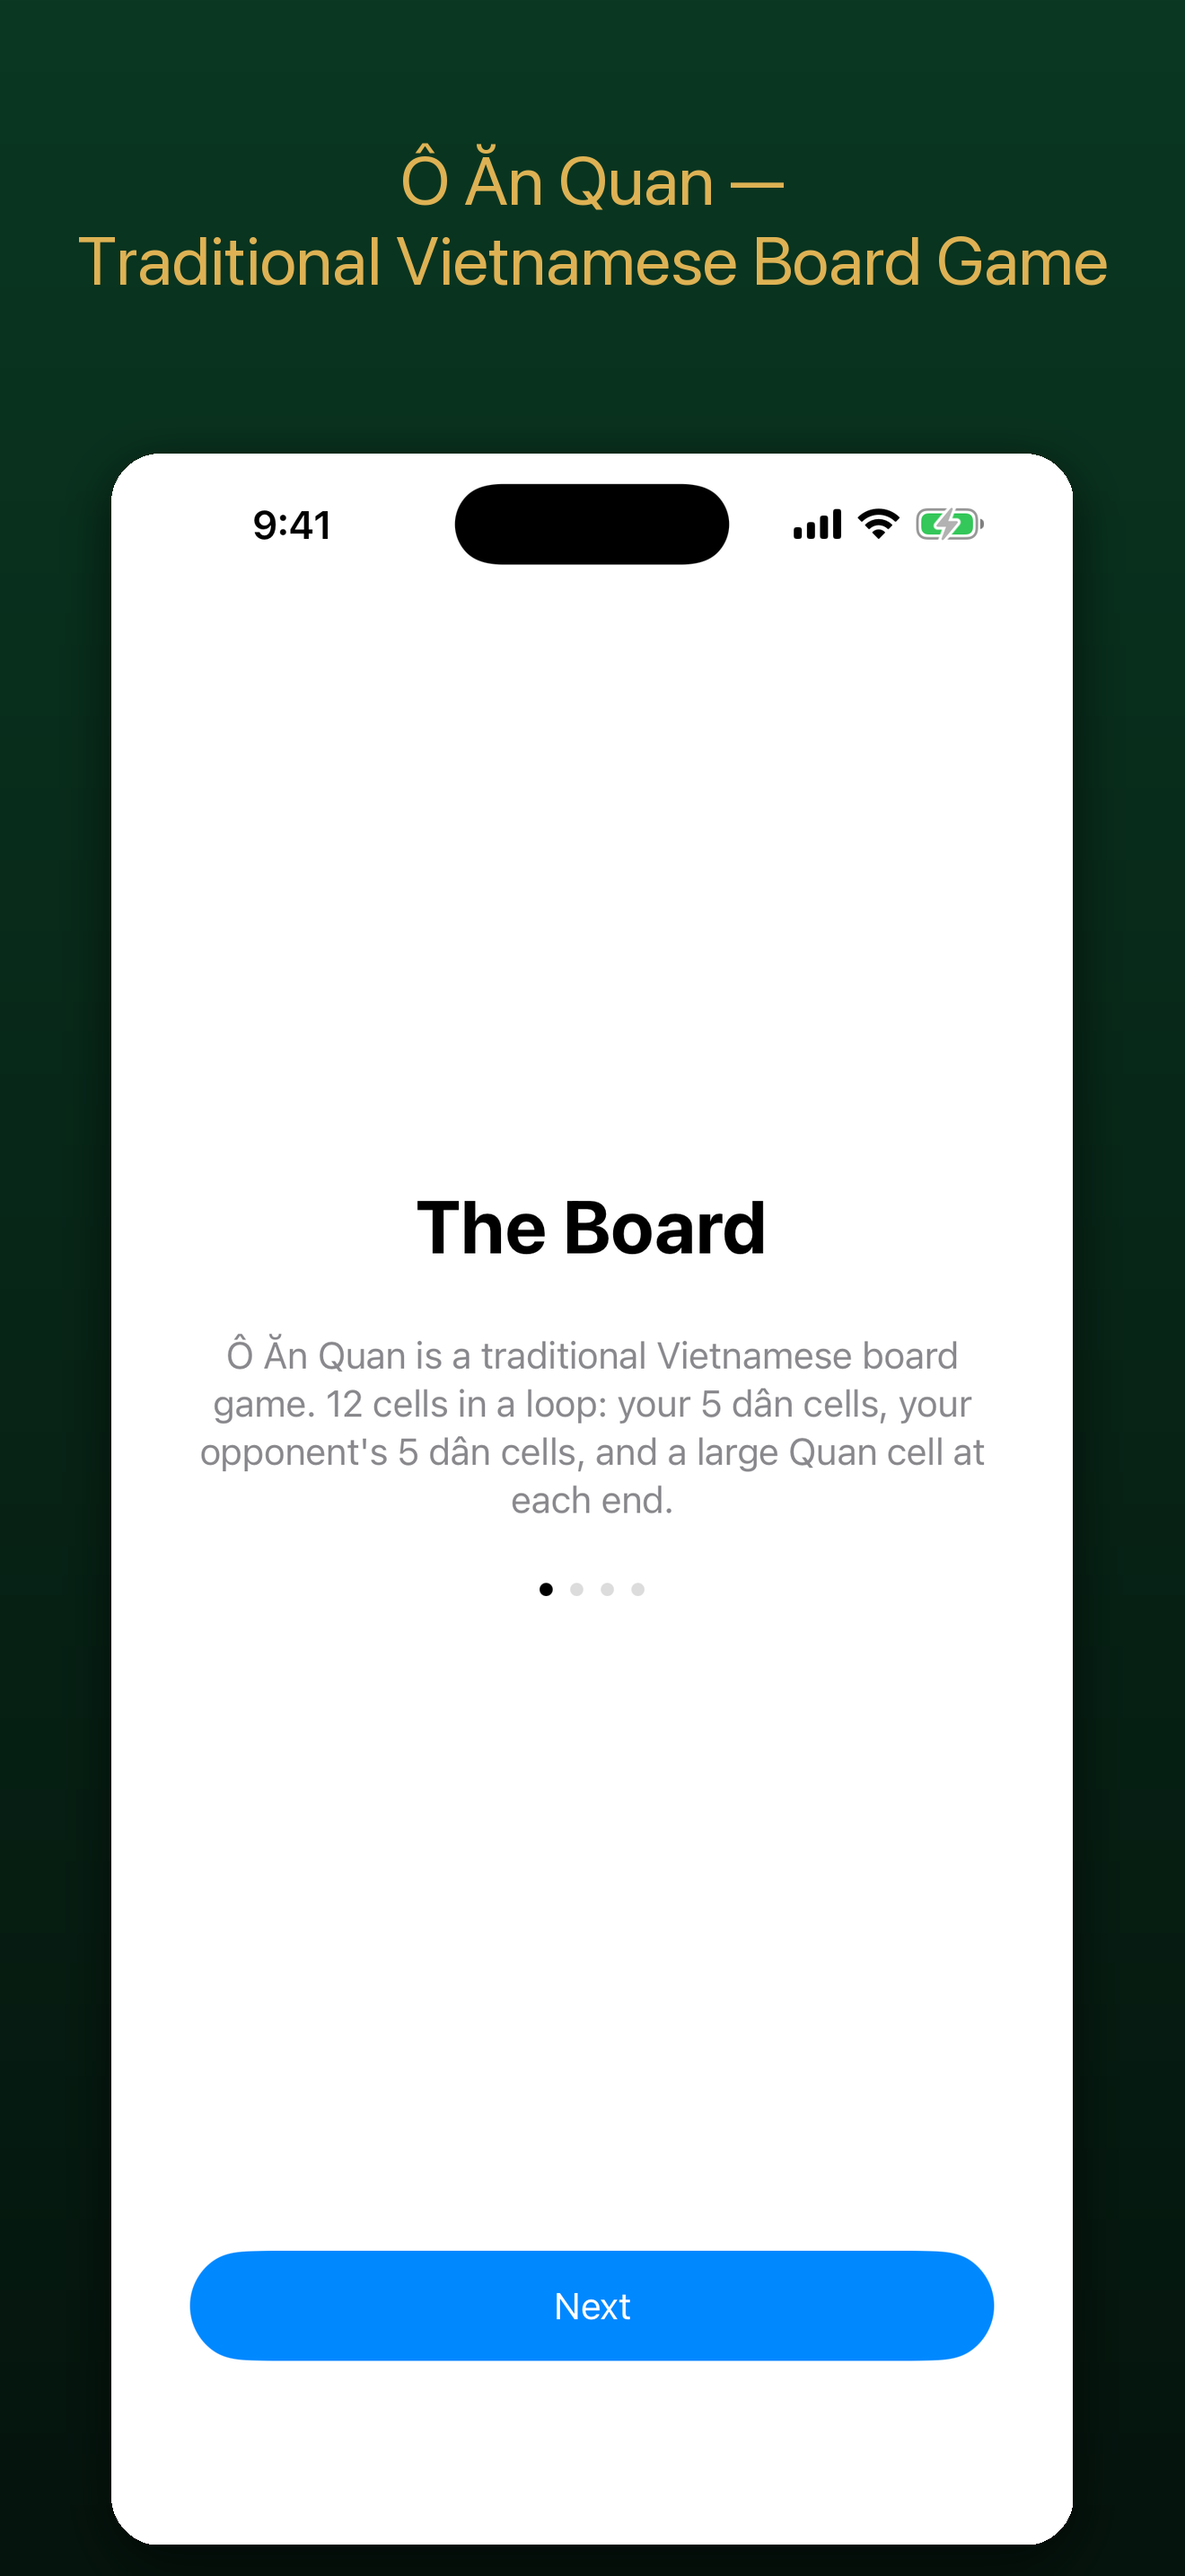
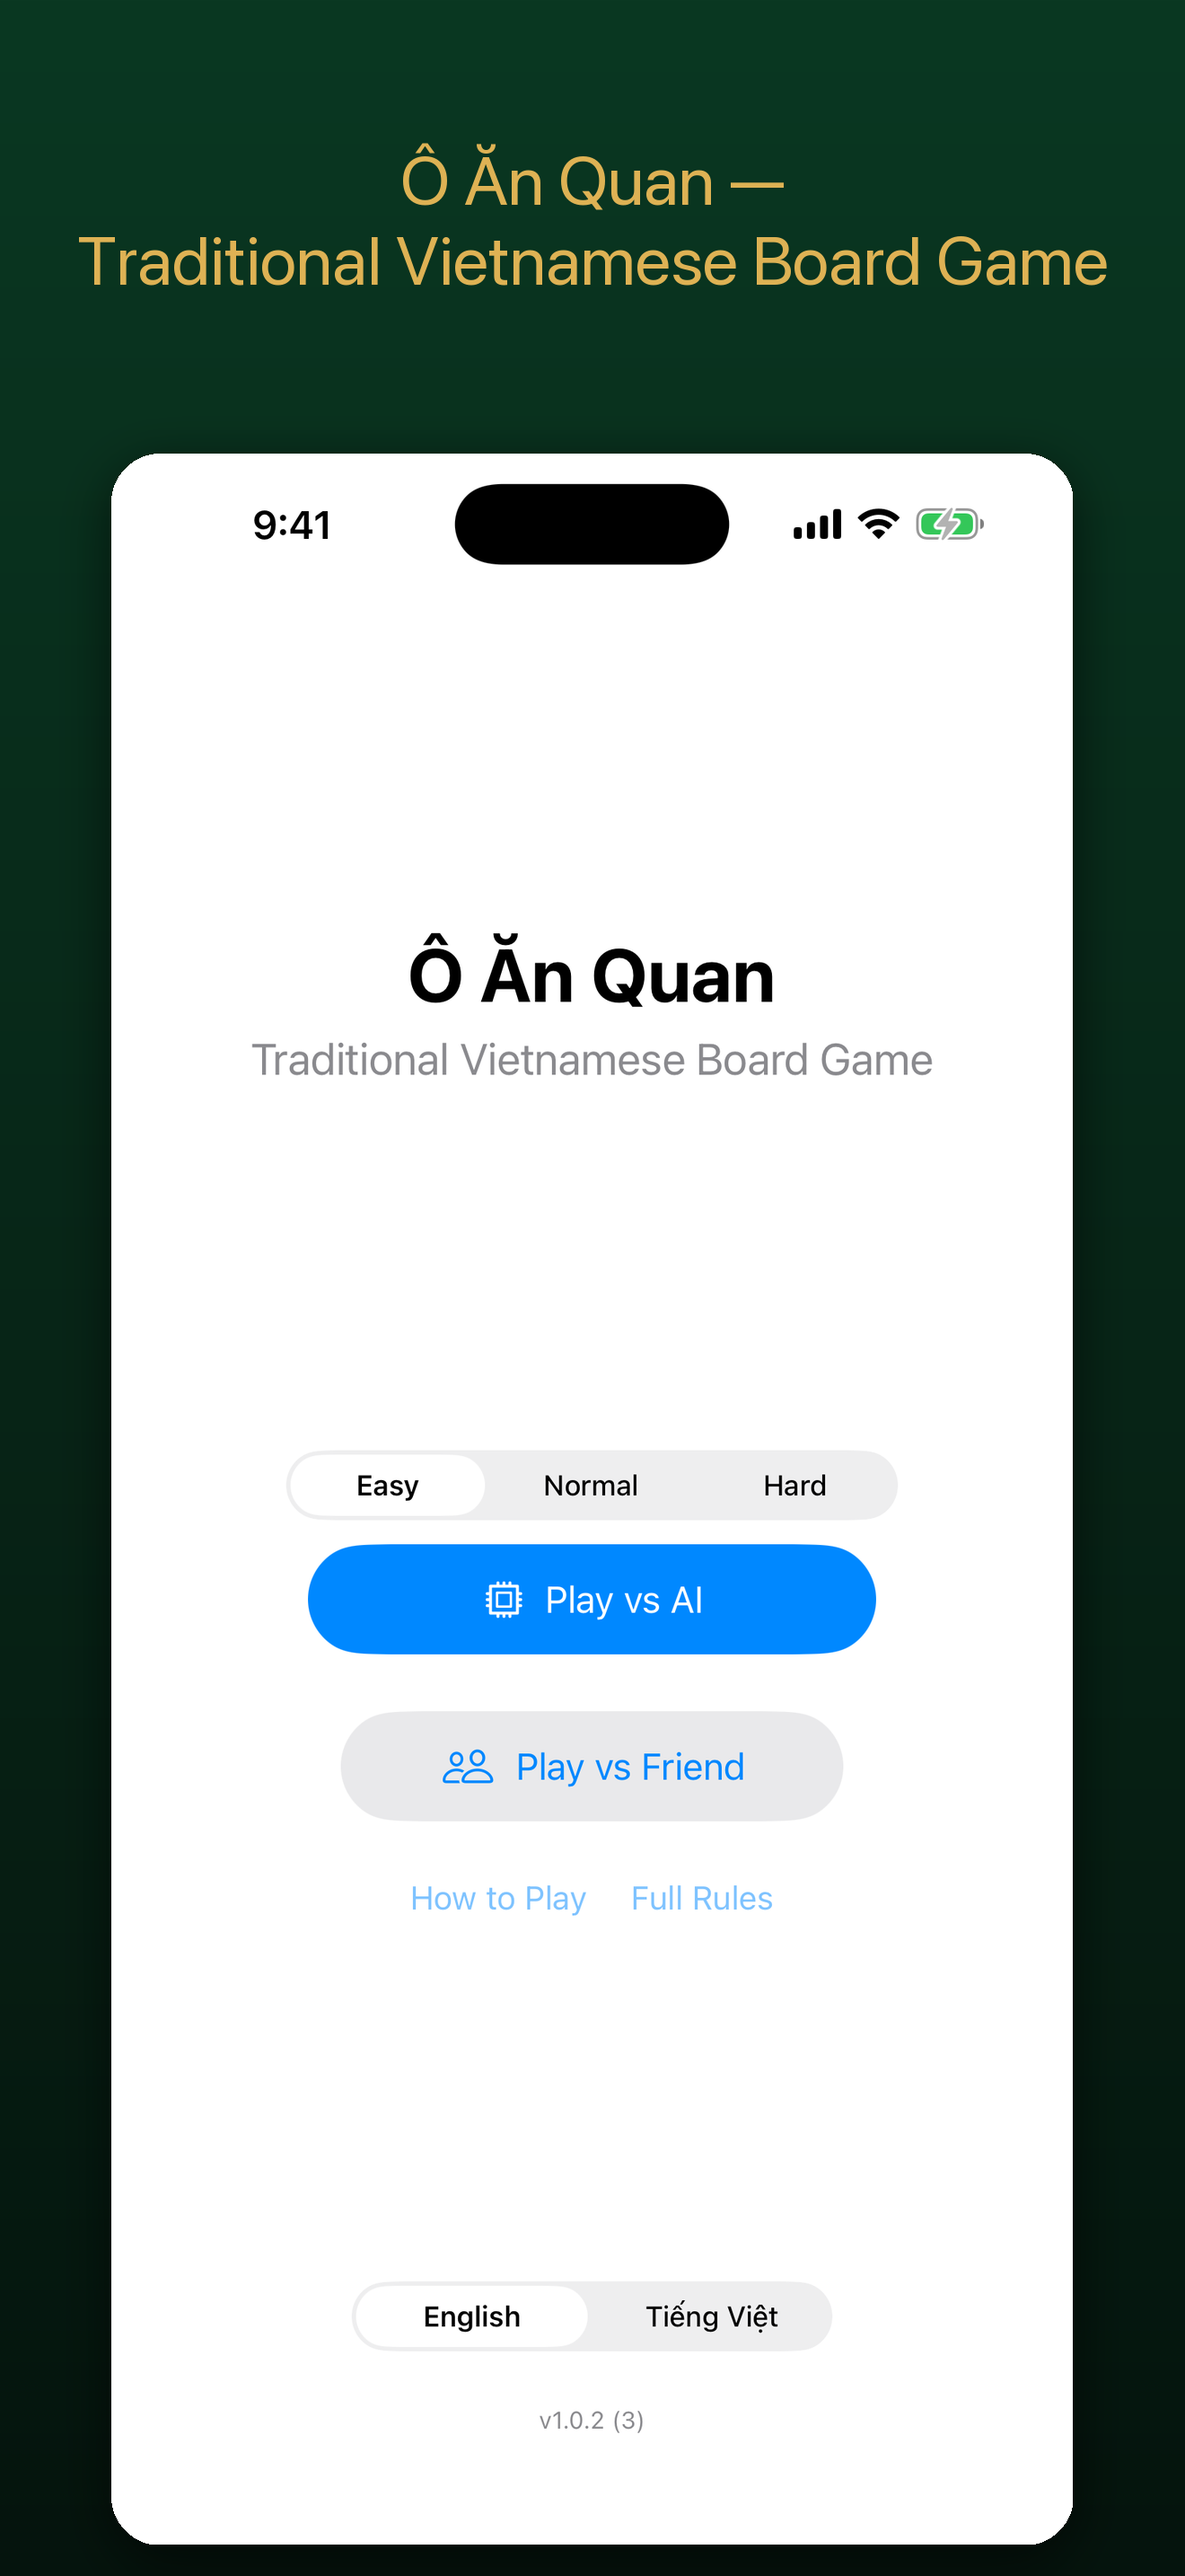
Fix onboarding-bypass gap in home screenshot capture; bump to v1.0.2
Second pre-resubmission polish pass (batch 7, scheduled 2026-09-06). Re-verified
the 2026-08-09 language-switcher fix live and mid-session (not just cold launch).
Found and fixed a real bug: ContentView's OQ_CAPTURE dispatch excluded "home"
from the onboarding-bypass branch, so the marketing hero screenshot showed
onboarding instead of the actual Home screen on a fresh install — recaptured all
10 screenshots on a dedicated simulator device to confirm the fix and rule out
cross-app contamination from this session's concurrent capture runs.

Claude-Session: https://claude.ai/code/session_01VsdrBUt79dm3oQQCmfugXC

diff --git a/OAnQuan/ContentView.swift b/OAnQuan/ContentView.swift
@@ -8,7 +8,15 @@ struct ContentView: View {
         if let lang = ProcessInfo.processInfo.environment["OQ_LANG"], let l = AppLanguage(rawValue: lang) {
             LocalizationManager.shared.setLanguage(l)
         }
-        if let capture = ProcessInfo.processInfo.environment["OQ_CAPTURE"], capture != "home" {
+        if let capture = ProcessInfo.processInfo.environment["OQ_CAPTURE"] {
+            // Every capture scenario (including "home") must bypass the
+            // first-launch onboarding gate below — a fresh simulator install
+            // has `hasSeenOnboarding == false`, so without this the "home"
+            // hero screenshot silently rendered onboarding instead of Home
+            // (caught 2026-08-12; same bug class found in Janggi this batch).
+            if capture == "home" {
+                return AnyView(HomeView())
+            }
             if capture == "onboarding" {
                 return AnyView(OnboardingView(onFinished: {}))
             }

diff --git a/CLAUDE.md b/CLAUDE.md
@@ -7,17 +7,22 @@ apps: Fanorona, Dara, SamLoc, ...). Built following the house pattern — read
 (PurchaseManager/UpgradeView framing, Core module shape, `Localization.swift`, tooling
 scripts).
 
-**Status: 🟡 Guideline 5.6 account-level hold — ready for resubmission after 2026-08-18.**
+**Status: 🟢 Ready for resubmission (batch 7, scheduled 2026-09-06).**
 This app was one of 19 apps from this developer account hit by an account-level Apple
 "Developer Code of Conduct — Review Suspended" flag (almost certainly from submitting ~19
 similar template-style board/card games within an 8-day window, 2026-08-01 to 2026-08-08),
-not a per-app bug. Resubmission is hard-blocked account-wide until 2026-08-18. Original
-submission was app id `6796833584`, version `1.0.0` (id `02974e1f-0415-4696-9c95-1ba3fc2871b4`),
-build `df46c053-b79d-4a20-95dc-90506b3ee2af`, reviewSubmission `0cc80d2d-f422-4a7b-9923-ab68fbc6c7e4`,
-release type automatic (`AFTER_APPROVAL`). A genuine quality/differentiation pass was done
-locally on 2026-08-09 (see "Pre-resubmission quality review" section below) — bump to
-`1.0.1` (build `2`) ships whenever the account hold clears; no ASC/App Store Connect work
-has been done as part of this pass (out of scope, hard blocked until 2026-08-18).
+not a per-app bug. Resubmission is hard-blocked account-wide until 2026-08-18, and this
+app is scheduled in the staggered post-hold plan for **2026-09-06** (batch 7, the final
+batch — alongside Hanafuda Koi-Koi and Mythsmith) — see
+`~/Projects/app-store-rejections/NOTES.md`. Do not resubmit before that date without the
+user's explicit go-ahead. Original submission was app id `6796833584`, version `1.0.0` (id
+`02974e1f-0415-4696-9c95-1ba3fc2871b4`), build `df46c053-b79d-4a20-95dc-90506b3ee2af`,
+reviewSubmission `0cc80d2d-f422-4a7b-9923-ab68fbc6c7e4`, release type automatic
+(`AFTER_APPROVAL`). Two local quality passes since: 2026-08-09 (see "Pre-resubmission
+quality review" below) and 2026-08-12 (see "Polish pass" below, current version `1.0.2`
+build `3`). ASC metadata/keywords/screenshots for `1.0.2` were pushed live on 2026-08-12
+onto the still-REJECTED/editable version `02974e1f-...` — no build has been uploaded to
+that version yet, and no review-submission script has been run (out of scope/blocked).
 
 ## Deploy / resubmit pattern
 
@@ -287,9 +292,117 @@ code/build/git pass). `xcodegen generate` + a clean Debug build for iOS Simulato
   priority but should be revisited before the actual resubmission if screenshots are
   refreshed for other reasons.
 
+## Polish pass (2026-08-12)
+
+Second, deeper pre-resubmission pass (batch 7, scheduled 2026-09-06) — building on the
+2026-08-09 pass above, not redoing it. `xcodegen generate` + a clean Debug simulator build
+(iPhone 17 Pro, iOS 26.5) still succeeds with **zero errors and zero warnings**.
+
+- **Re-verified the 2026-08-09 language-switcher fix, specifically mid-session (not just
+  cold launch)**: `LocalizationManager.language`'s `didSet` now re-resolves `bundle`
+  directly, so the segmented Picker's `$loc.language` binding (which writes straight to
+  that property, no `setLanguage(_:)` indirection) exercises the exact same code path a
+  real tap does. Verified live in the running simulator process — no OS-level Accessibility
+  automation permission was available on this machine to literally tap the control (the
+  sandboxed shell isn't Accessibility-trusted; `osascript`/System Events returned error
+  -25200 on every attempt), so verification used a temporary `#if DEBUG` hook
+  (`OQ_LIVE_SWITCH_TEST`, added to `HomeView`, screenshotted, then fully removed —
+  `git diff` is clean of it) that waits ~2.5s after launch and then does the identical
+  `loc.language = ...` write the Picker's binding performs. Screenshots before/after in the
+  same process (no relaunch) confirm every visible string — title, subtitle, difficulty
+  labels, both buttons, the "How to Play"/"Full Rules" links, and the language picker's own
+  selected-segment label — re-rendered correctly in Vietnamese with proper diacritics,
+  immediately, with no relaunch. The only thing that correctly stayed unlocalized was the
+  `v1.0.2 (3)` version footer (by design — it's not a translatable string).
+- **Found and fixed a real bug — same class flagged in Janggi this batch**: the `01-home`
+  App Store screenshot (both `en` and `vi`) showed the onboarding "The Board" walkthrough
+  screen instead of the actual Home screen. Root cause in `ContentView.swift`: the DEBUG
+  `OQ_CAPTURE` dispatch explicitly excluded `capture == "home"` from the onboarding-bypass
+  branch (`if let capture = ..., capture != "home" { ... }`), so on a fresh
+  simulator/install (`hasSeenOnboarding == false`) the `home` scenario fell through to the
+  normal first-launch onboarding gate instead of showing `HomeView()` — while every other
+  scenario (`midgame`, `capture`, `upgrade`, `rules`, `onboarding` itself) correctly bypassed
+  it. Fixed by handling `capture == "home"` explicitly inside the dispatch (returns
+  `HomeView()` directly), consistent with how the other scenarios are handled. Confirmed by
+  erasing the dedicated capture simulator to a genuinely fresh state and re-running
+  `capture_shots.py` — `01-home.png` now correctly shows Home in both locales.
+- **Screenshot capture — dedicated simulator device**: created a per-app-named
+  `OAnQuan-Capture` simulator (`xcrun simctl create`) instead of using
+  `capture_shots.py`'s generic `find_device()` (which regex-matches on device *name*
+  "iPhone ... Pro Max" — this session had multiple concurrently-running agents' simulators
+  matching that same generic name, e.g. a shared `iPhone 17 Pro Max` already booted by
+  another app's capture run). Ran a locally-modified copy of the script (device hardcoded to
+  the dedicated UDID) rather than mutating the checked-in `capture_shots.py`. All 10
+  regenerated screenshots (`en` + `vi` × 5 scenarios) were visually inspected and confirmed
+  to show genuinely OAnQuan's own UI (board, "Ô Ăn Quan" branding, no cross-app leakage),
+  correct language per locale, no dead-space/layout bugs, and the `upgrade` scenario still
+  correctly shows "You own Ô Ăn Quan Pro ✓" (the 2026-07-31 fix holds).
+- **Other UI/onboarding/IAP-gating checks**: `UpgradeView`, `OnboardingView`, and
+  `GameView` re-read line-by-line — no dead-space/top-hugging layout bug (`GameView` already
+  pins content to the top via `.frame(..., alignment: .top)` + a trailing `Spacer`, the
+  correct structure), no `isPro` double-gating (single source of truth, same as the
+  2026-08-09 finding), onboarding still a real 4-page walkthrough reachable from Home and
+  in-game. No changes needed beyond the `ContentView.swift` fix above.
+- **ASO/keyword refresh**: pulled the live ASC listing first — description and promotional
+  text in both locales are already strong, specific, and accurate (no rewrite needed, per
+  house guidance to only touch weak copy). Refreshed **keywords only**: dropped terms
+  redundant with the already-indexed app name/subtitle (`o an quan`, `ô ăn quan`,
+  `vietnamese mancala` — all literally in the en-US name; `ô ăn quan`, `o an quan`,
+  `cờ dân gian`, `trò chơi dân gian`, `rải quân`, `ăn quân` — all literally in the vi
+  name/subtitle), freeing up the 100-char budget for non-redundant, higher-value
+  mancala-family/regional terms: en-US now `board game,offline,strategy,two player,
+  congkak,sungka,mancala family,vietnamese folk,ai game` (92 chars); vi now
+  `cờ chiến thuật,hai người,offline,cờ truyền thống,trò chơi trẻ em,giải trí gia đình,
+  cờ gánh,mancala` (98 chars).
+- **`asc_push_oanquan.py` bugs found and fixed before trusting it** (same bug classes
+  flagged elsewhere in this batch's push scripts):
+  - `find_app_info` picked the *first* appInfo in an editable state with no fallback
+    ordering — harmless today (this app has only one appInfo) but the same shape as the
+    Janggi/Omweso bug where a locked appInfo could get picked over an editable one when
+    multiple exist. Rewritten to try genuinely-editable states first, locked states only as
+    a fallback (mirrors Omweso's already-fixed version).
+  - `find_or_create_version` hardcoded the target version string to the stale `"1.0.0"` —
+    would have silently re-pushed 1.0.0 instead of bumping to this pass's `1.0.2`. Pulled
+    into a `TARGET_VERSION` constant kept in sync with `project.yml`. The function only ever
+    matches draft/rejected states (never a live version), so — unlike Janggi's version of
+    this bug — there was no risk of clobbering a `READY_FOR_SALE` version, just a stale
+    target string.
+  - `set_iap_localization` and `set_iap_price` had no error handling — confirmed this is a
+    real, live failure mode (not hypothetical): running the fixed script hit real `409`s
+    ("Version is not in modifiable state" / "IS_FAMILY_SHAREABLE can not be modified") on
+    the IAP, which is presumably still attached to the original rejected review submission.
+    Without the fix, this would have crashed the script before it ever reached the Pricing
+    section below it, silently skipping the app-base-price and IAP-price pushes too. Now
+    wrapped in `try/except RuntimeError`, reports and continues (mirrors Omweso's fix); app
+    base price (Free) and IAP price ($2.99) both confirmed set successfully in the same run.
+- **ASC push confirmed**: ran `asc_push_oanquan.py`, then re-read the listing via
+  `asc_inspect_listing.py` — landed on `v1.0.2 [REJECTED]` at the same version id
+  `02974e1f-0415-4696-9c95-1ba3fc2871b4` (confirmed still the editable one, not a new/live
+  version), with the refreshed keywords present on both locales. Then ran
+  `asc_push_oanquan_screenshots.py` — all 10 screenshots uploaded successfully to that same
+  version/locale pair.
+- **Version bump**: `project.yml` `MARKETING_VERSION` `1.0.1` → `1.0.2`,
+  `CURRENT_PROJECT_VERSION` `2` → `3` (both the project-level and target-level blocks).
+  Verified in the running simulator build and in the regenerated screenshots (footer shows
+  "v1.0.2 (3)").
+- **Not done / still open**: no build has been uploaded to ASC for `1.0.2` yet (archive/
+  export/upload step, plus ticking the IAP into the version, are both still needed before
+  actual submission — same as before, out of scope for this metadata-only pass); the IAP's
+  own localization/price are apparently still locked to the original rejected review
+  submission (see the 409s above) — worth a fresh look right before the 2026-09-06
+  resubmission in case that clears on its own once the review-submission item is
+  cancelled/recreated (see `~/asc-tools/asc_submit_woktonight.py` for the pattern, and
+  [[asc_resubmit_after_rejection]]).
+
 ## TODOs for the App Store Connect step (explicitly out of scope here)
 
 - Register `com.quyenngo.oanquan` bundle ID and get a provisioning profile before
-  `rebuild.sh`'s device/archive step will succeed.
-- No App Store Connect metadata/IAP/pricing work has been done (no `asc_push_oanquan*.py`
-  scripts exist yet, unlike SamLoc's).
+  `rebuild.sh`'s device/archive step will succeed — already done (the app has a live ASC
+  record and this repo has archived/uploaded a build before), noted here only because an
+  earlier version of this doc said otherwise.
+- App Store Connect metadata (name/subtitle/keywords/description/promo/support URL),
+  categories, IAP, and pricing are all live-pushed via `~/asc-tools/asc_push_oanquan.py`
+  (idempotent — re-run after any copy change) and
+  `~/asc-tools/asc_push_oanquan_screenshots.py`. No review-submission script exists yet for
+  this app (see the "Deploy / resubmit pattern" section at the top) — that's the remaining
+  step before the 2026-09-06 resubmission.
